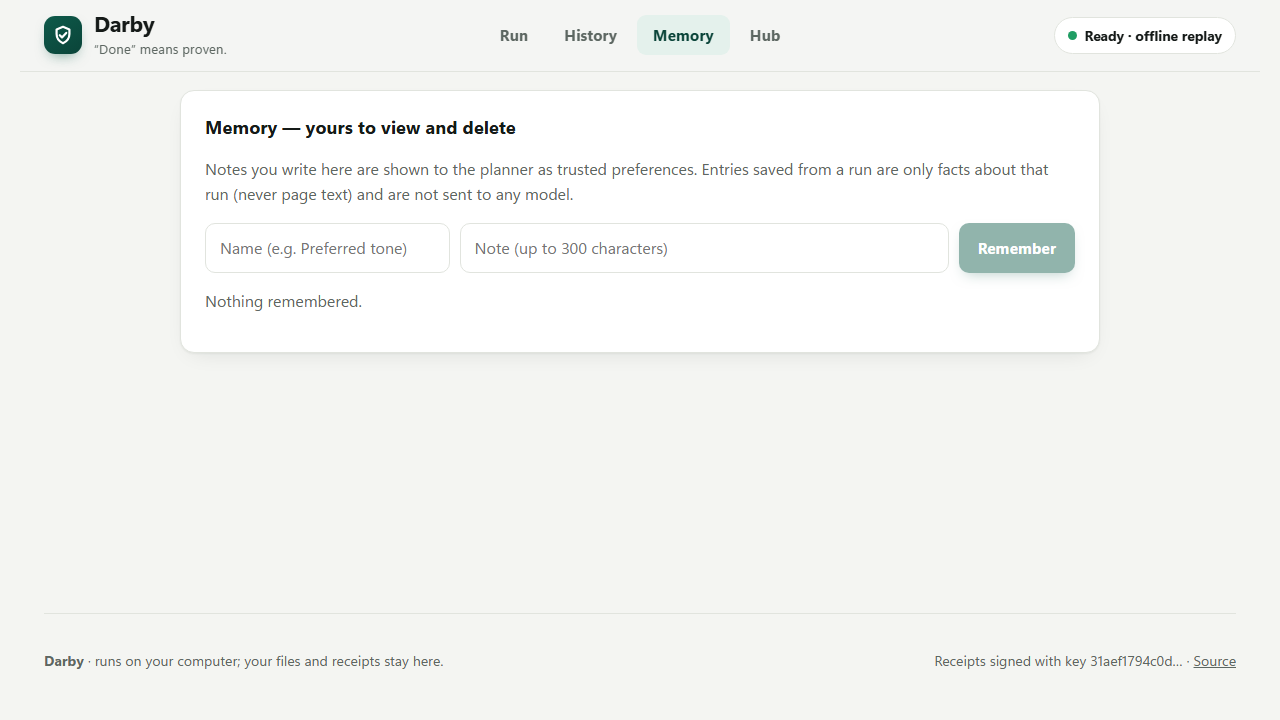
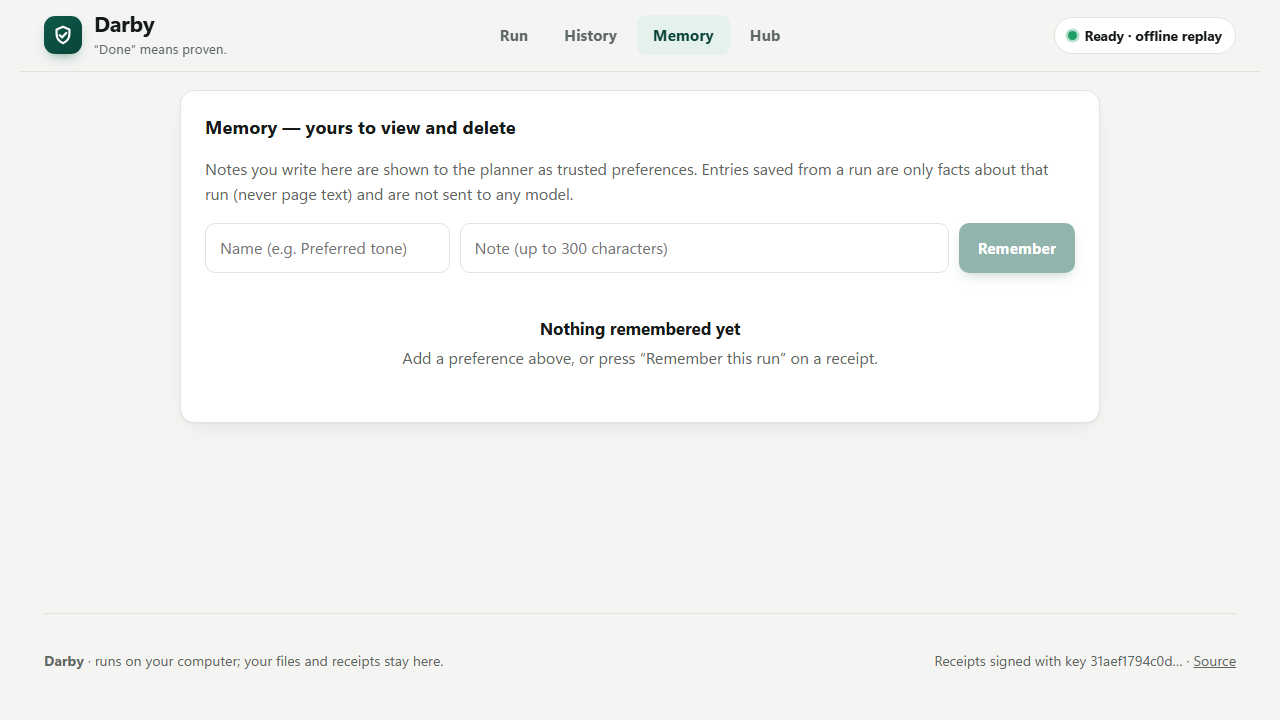
PS1 compliance matrix; page-context input; Hub, Memory and phone-layout polish; mobile overflow fix

Changed region(s): [[0.1562, 0.4278, 0.8438, 0.5194], [0.1562, 0.3972, 0.2812, 0.4278], [0.8125, 0.0306, 0.8438, 0.0611]]

diff --git a/apps/companion/src/App.tsx b/apps/companion/src/App.tsx
@@ -24,6 +24,7 @@ export function App() {
   const d = useDarby();
   const [tab, setTab] = useState<Tab>('run');
   const [goal, setGoal] = useState('');
+  const [pageUrl, setPageUrl] = useState('');
   const [listening, setListening] = useState(false);
   const [note, setNote] = useState('');
   const recRef = useRef<any>(null);
@@ -125,7 +126,8 @@ export function App() {
             <h2 id="goal-h">What should Darby get done?</h2>
             <textarea data-testid="goal-box" value={goal} onChange={(e) => setGoal(e.target.value)} rows={4} placeholder="Describe your goal in plain language…" aria-label="Your goal" />
             <div className="row">
-              <button className="btn primary" disabled={!allUp || goal.trim().length < 3} onClick={() => void d.start(goal.trim())} data-testid="run-btn">Plan &amp; run</button>
+              <button className="btn primary" disabled={!allUp || goal.trim().length < 3} onClick={() => void d.start(pageUrl.trim() ? `${goal.trim()}
+(Work on this page: ${pageUrl.trim()})` : goal.trim())} data-testid="run-btn">Plan &amp; run</button>
               <button className={`btn ghost${listening ? ' on' : ''}`} onClick={toggleVoice} data-testid="voice-btn" aria-pressed={listening} title="Speak your goal (Chrome speech recognition, needs internet)">{listening ? '● Listening… stop' : '🎤 Speak'}</button>
               <label className="btn ghost" data-testid="shot-btn" title="Attach a screenshot: the vision model describes it into the goal box for you to edit">
                 📎 Screenshot<input type="file" accept="image/png,image/jpeg,image/webp" hidden onChange={(e) => void attachShot(e.target.files?.[0])} />
@@ -133,6 +135,10 @@ export function App() {
               <span className="muted">Every step gets a proof; the run ends in a signed receipt.</span>
             </div>
             {note && <p className="muted small" role="status" data-testid="input-note">{note}</p>}
+            <label className="ctx"><span className="muted small">Page context (optional): the page Darby should start from</span>
+              <input value={pageUrl} onChange={(e) => setPageUrl(e.target.value)} placeholder={d.config?.allowedOrigins?.[0] ? `${d.config.allowedOrigins[0]}/startups/acme-ai` : 'https://…'} aria-label="Page to work on" data-testid="page-context" inputMode="url" />
+              <span className="muted small">{d.config?.allowedOrigins?.length ? `Darby may only read: ${d.config.allowedOrigins.join(', ')}. Anything else is blocked by policy.` : ''}</span>
+            </label>
             <div className="row examples" aria-label="Example goals"><span className="muted small">Try an example:</span>
               {EXAMPLES.map((x) => (<button key={x.label} className="btn ghost" onClick={() => setGoal(x.goal)} data-testid={`example-${x.label.slice(0, 6).replace(/\W/g, '').toLowerCase()}`}>{x.label}</button>))}
             </div>

diff --git a/apps/companion/src/parts.tsx b/apps/companion/src/parts.tsx
@@ -302,7 +302,7 @@ export function Hub({ items, busy, onRun }: { items: PlaybookItem[]; busy: boole
     <section className="card" aria-labelledby="hub-h">
       <h2 id="hub-h">Hub — Playbooks you can re-run</h2>
       <p className="muted">A Playbook is a verified run saved as a recipe. Each replay is planned by code from the saved steps, goes through the same policy and approvals, and ends in its own signed receipt. The CI badge appears only after <code>npm run playbook:check</code> passes for this exact version.</p>
-      {items.length === 0 ? <p className="muted" data-testid="hub-empty">No Playbooks yet. Finish a run, then press “Save as Playbook” on its receipt.</p> : (
+      {items.length === 0 ? <div className="empty" data-testid="hub-empty"><b>No Playbooks yet</b>Finish a run, then press “Save as Playbook” on its receipt. It becomes a re-runnable skill here.</div> : (
         <ul className="playbooks" data-testid="hub">{items.map((pb) => (<PlaybookCard key={pb.slug + pb.sha256} pb={pb} busy={busy} onRun={onRun} />))}</ul>
       )}
     </section>
@@ -431,7 +431,7 @@ export function Memory({ items, onAdd, onDelete }: { items: MemoryItem[]; onAdd:
         <input value={v} onChange={(e) => setV(e.target.value)} placeholder="Note (up to 300 characters)" aria-label="Memory note" maxLength={300} />
         <button className="btn primary" type="submit" disabled={!k.trim() || !v.trim()}>Remember</button>
       </form>
-      {items.length === 0 ? <p className="muted" data-testid="memory-empty">Nothing remembered.</p> : (
+      {items.length === 0 ? <div className="empty" data-testid="memory-empty"><b>Nothing remembered yet</b>Add a preference above, or press “Remember this run” on a receipt.</div> : (
         <ul className="memory" data-testid="memory">
           {items.map((m) => (
             <li key={m.id}>

diff --git a/apps/companion/src/styles.css b/apps/companion/src/styles.css
@@ -220,3 +220,13 @@ textarea { resize: vertical; font-size: 1.05rem; min-height: 112px; }
 @media (max-width: 760px) { .pb-head { flex-direction: column; } .shell { padding: 0 16px 32px; } .top { margin-inline: -16px; padding-inline: 16px; } .mem-form { grid-template-columns: 1fr; } .receipt { padding: 18px; } .tamper { grid-template-columns: 1fr; } }
 .pb-check input { margin: 0; width: auto; padding: 0; box-shadow: none; }
 @media print { .top, .runbar, .btn { display: none !important; } }
+
+.history .linkbtn { text-decoration: none; font-size: 1.02rem; }
+.history .linkbtn:hover { text-decoration: underline; }
+.hub-intro { max-width: 70ch; }
+.stack > *, .col > *, .cols > * { min-width: 0; }
+code { overflow-wrap: anywhere; }
+.top { min-width: 0; } .shell { overflow-x: clip; }
+@media (max-width: 760px) { .tagline { display: none; } .tabs { margin-inline: -4px; } .lede { padding-top: 10px; } .trust { grid-template-columns: 1fr; } .runbar { flex-direction: column; align-items: stretch; top: 112px; } .runbar-goal { white-space: normal; } .approval { padding: 16px; } .approval dl, .kv { grid-template-columns: 1fr; gap: 0 } dt { margin-top: 8px; } .review-grid iframe { height: 320px; } }
+
+.ctx { display: grid; gap: 4px; margin-top: 14px; } .ctx input { padding: 9px 12px; font-size: .95rem; }

diff --git a/apps/companion/src/useDarby.ts b/apps/companion/src/useDarby.ts
@@ -4,7 +4,7 @@ import { applyEvent, foldEvents, type RunView } from './state';
 
 export type Link = 'connecting' | 'up' | 'down';
 export interface RunSummary { id: string; goal: string; status: string; verdict: string | null; labels: string[]; repairOf: string | null; createdAt: string; blocked: number }
-export interface AppConfig { llm: { provider: string; model: string; replayOnly: boolean }; headless: boolean; teamEmail: string; signerFingerprint: string }
+export interface AppConfig { llm: { provider: string; model: string; replayOnly: boolean }; headless: boolean; teamEmail: string; signerFingerprint: string; allowedOrigins?: string[] }
 export interface MemoryItem { id: string; key: string; value: string; sourceRunId: string | null; createdAt: string }
 export interface EvidenceRow { id: number; stepId: string | null; kind: string; path: string; sha256: string; bytes: number }
 export interface RunDetail { evidence: EvidenceRow[]; steps: { stepId: string; result: Record<string, unknown> | null; args: Record<string, unknown> }[]; approvals: { stepId: string; status: string; contentHash: string; summary: string }[] }

diff --git a/docs/PS1_COMPLIANCE.md b/docs/PS1_COMPLIANCE.md
@@ -1,0 +1,111 @@
+# PS1 compliance, line by line
+
+Source: "Problem Statement-1: Build an AI-Native Browser with an Autonomous Multimodal Companion Using AdaL" (organiser PDF).
+Status: MET (works, tested), PARTLY (works with a stated limit), NOT MET (not built), OWNER (only the team can do it).
+
+## Section 3, core capabilities
+| # | Requirement | Status | Evidence / limit |
+|---|---|---|---|
+| 1 | AI-native browsing: understand intent, operate actual tabs, websites, authorized web apps | MET | Playwright drives real Chrome tabs (3 in parallel); fixture sites and the LeadDesk web app; `case1`, `case4`, UI walkthrough |
+| 2 | Autonomous task execution: multi-step plans using browser, APIs, other tools | MET | Planner builds typed plans; tools include `browser.read_page`, `browser.act`, `http.request` (documented API), `sheet.write`, `gtm.*` |
+| 3 | Multimodal: image, audio, video understanding or generation | PARTLY | Image understanding (vision check on screenshots, screenshot-to-goal). Audio: voiceover generation (Edge TTS / macOS say / espeak). Video: 15 s teaser composed with ffmpeg and probed. Image generation is a labelled placeholder card: Gemini image models returned quota errors on the free tier (tested), and paid services are out of scope. Audio transcription and video understanding are not built |
+| 4 | Coding and development: AdaL assists implementation, debugging, testing | PARTLY | A model writes the landing page and Darby tests it in a real tab with one repair loop (`case3`). AdaL's own contribution: M0-M3, red team (see `docs/ADAL_EVIDENCE.md`); the rest is logged as built with another assistant. Recording still needed: OWNER |
+| 5 | GTM automation: research, competitor analysis, content, launch | MET | Case 3: competitor research, positioning and copy, hero, voiceover, teaser, landing page, test, PR behind approval |
+| 6 | Verification and transparency: verify outcomes, show progress, report failures honestly | MET | Independent verifier, 10 evidence-contract kinds, live timeline, evidence drawer, signed receipt, `case4` FAILED then repaired |
+| 7 | User control and security: approvals, cancellation, manual takeover | MET | Approval card (Approve / Deny / Take over), Cancel, Take over and Resume; `cancel`, `cancel-approval`, `takeover`, `case1-denied`, `case3-denied` |
+
+## Section 4, mandatory AdaL requirement
+| Requirement | Status | Note |
+|---|---|---|
+| AdaL actively used in development, not just documented | PARTLY | Genuine for M0-M3 and the independent red team (commit trailers `Built-with: AdaL`, `docs/evidence/adal-redteam`). Later milestones were built with another assistant and are logged that way |
+| Brief explanation and demonstration of AdaL's role; genuine evidence (recording or live demo) | OWNER | `docs/ADAL_TODO_FOR_OWNER.md` lists the sessions and prompts to run and record |
+
+## Section 5, Pillar 1 (potential capabilities)
+| Capability | Status | Evidence / limit |
+|---|---|---|
+| Context-aware assistance using the active or user-selected tab | PARTLY | Optional "Page context" field in the goal box (user-selected page, restricted to allow-listed origins). Darby does not read the user's own live Chrome tabs |
+| Multi-step browser automation and web research | MET | Case 1 (10 pages, 3 at a time), Case 3 |
+| Real editing of documents and spreadsheets | PARTLY | Real xlsx file written and read back from disk. Google Sheets (M4) is not configured |
+| Structured extraction and report generation | MET | Quarantined reader with a strict schema; positioning and launch-post documents |
+| Connected-app workflows via authorized APIs or browser automation | PARTLY | LeadDesk app via browser and its documented API (real, local). GitHub PR and sheet sharing are simulated and labelled unless tokens are set |
+| Task history, progress tracking, user-controlled memory | MET | Recent runs, run progress bar and timeline, Memory tab (add, view, delete) |
+| Independent verification and transparent failure reporting | MET | As above |
+| Example: research ten AI startups, compare, create a spreadsheet, read back, flag unknowns, provide the artifact | MET | Case 1: 10 rows read back, gaps exactly cobalt, echo, helio flagged NOT FOUND, `Competitors.xlsx` provided |
+
+## Section 5, Pillar 2 (potential capabilities)
+| Capability | Status | Evidence / limit |
+|---|---|---|
+| Codebase understanding, debugging, test execution, code changes | PARTLY | The product writes and tests code (landing page). Codebase analysis of a user's repository is not built |
+| Browser-based testing of locally running applications | MET | `gtm.test_page` opens the generated page in a fresh tab with assertions and a vision check; the walkthrough tests Darby's own UI |
+| Image understanding and generation | PARTLY | Understanding yes; generation is a labelled placeholder |
+| Audio transcription, voiceover, audio analysis | PARTLY | Voiceover and a duration probe yes; transcription no |
+| Video understanding, generation, editing, compositing | PARTLY | Generation and compositing yes (hero + captions + voiceover); understanding no |
+| Market and competitor research | MET | Case 3 |
+| GTM content creation, messaging, campaign preparation | MET | Case 3 outputs, reviewable in the Review panel |
+| Chaining multiple tools into one end-to-end workflow | MET | Nine-step chain in Case 3 |
+| Example: audience analysis, competitors, concept, creative assets, launch campaign, reviewable outputs in a coherent workspace | MET | Case 3 and its Review panel |
+
+## Section 6, mandatory functional requirements
+| # | Requirement | Status | Evidence |
+|---|---|---|---|
+| 1 | Natural-language, multi-step instruction converted to a plan | MET | Goal box, plan with proof per step; text, voice (Chrome) or screenshot input |
+| 2 | At least one workflow on a real page, local app, or document; simulated actions do not count | MET | Case 1 and Case 4 act on real pages and a real xlsx / the real LeadDesk app. Simulated items (share, PR) are labelled and are not what the verdict rests on |
+| 3 | Verify the change occurred before marking complete | MET | `sheet_readback`, `quote_in_page`, API read-back, `page_assertions`, vision, `media_probe`, `pr_exists`; `case4` proves a false "Saved ✓" is caught |
+| 4 | Inspect progress, actions, results, errors | MET | Timeline, evidence drawer, receipt |
+| 5 | Cancel, intervene manually, approve consequential actions (send, publish, delete) | MET | Cancel, Take over, approval cards for share and PR. No delete tool exists, so there is nothing to approve there |
+| 6 | At least one end-to-end workflow combining multiple tools | MET | Case 3 |
+| 7 | Mandatory AdaL usage, explained and demonstrated | PARTLY / OWNER | See section 4 |
+
+## Section 7, suggested architecture (illustrative, not required)
+| Item | Darby |
+|---|---|
+| Desktop/browser: Electron, Chromium, or other | Chromium via Playwright plus a web companion (browser-integrated workspace). No Electron shell |
+| Frontend React + TypeScript | Yes (Vite) |
+| Agent runtime: planner, tool router, execution controller, policy engine, verifier | Yes, all five |
+| AI layer | Gemini (free tier) with a pluggable provider; replay mode for offline |
+| Browser automation | Playwright |
+| Backend Node + TypeScript | Yes (Express + WebSocket) |
+| Database | SQLite (append-only ledger); no Supabase |
+| Integrations: Google Workspace, GitHub, Slack, Notion | GitHub (simulated unless token), local sheet; no Slack, Notion or Google |
+| Multimodal services | Vision model, TTS, ffmpeg |
+
+## Section 8, evaluation criteria
+| Criterion | Weight | Where it is shown |
+|---|---|---|
+| Functional execution and verified outcomes | 25 % | Four cases, UI walkthrough 20/20 (offline and live), `docs/evidence/` |
+| Agent intelligence and multi-step orchestration | 20 % | Typed plans, parallel tabs, replanning after failure (Case 4), Playbook replay, 9-step Case 3 chain |
+| Multimodal and coding capabilities | 15 % | Vision, voiceover, teaser video, model-written landing page tested in a real tab; limits above |
+| User experience and workflow clarity | 15 % | Product UI at 1280x720, 1920x1080 and phone width; screenshots in `docs/evidence/ui` |
+| Security, permissions, user control | 10 % | Policy engine, taint tracking, 10 poisoned pages, red team (48 independent attempts, 0 bypass after fix), approvals, Cancel, Take over |
+| Practical value, originality, GTM potential | 10 % | `docs/VALUE.md` |
+| Demonstrated AdaL usage | 5 % | Partial; OWNER sessions pending |
+
+## Section 9, deliverables
+| # | Deliverable | Status | Where |
+|---|---|---|---|
+| 1 | Working prototype of the core workflow | MET | `npm run demo:offline` |
+| 2 | Live demo or short video | OWNER | `docs/DEMO_SCRIPT.md`; the video must be recorded by the team |
+| 3 | Source with setup and run instructions | MET | `README.md` |
+| 4 | Architecture overview (agent, tools, verification) | MET | `docs/ARCHITECTURE.md` |
+| 5 | Test case with success and failure handling | MET | `case1` (success with gaps), `case4` (failure then repair), `npm run test:acceptance` |
+| 6 | Users, value, future | MET | `docs/VALUE.md` |
+| 7 | AdaL usage evidence (recording of coding, debugging, browser testing) | OWNER | `docs/ADAL_TODO_FOR_OWNER.md` |
+
+## Section 10, security and responsible execution
+| Requirement | Status | Evidence |
+|---|---|---|
+| Respect website permissions, authentication boundaries, privacy | MET | Allow-listed origins (READ-001), no credential entry tools, local-only data |
+| External pages and documents treated as untrusted | MET | Quarantined reader, taint tracking, `case2*` |
+| Sensitive actions require approval | MET | EXT-001 approval cards |
+| Credentials handled securely | MET | Keys only in `.env`, never logged (redaction tests), secret guard on every push |
+| Never claim success without evidence | MET | Verdict comes from the verifier, not the agent; `case4` |
+| Honest failure and a safe recovery path | MET | FAILED with plain cause, recovery offered, repair run |
+
+## Section 11, expected outcome
+"Not a browser with a chatbot, a coding assistant with a browser tool, or disconnected APIs; a unified workspace that understands a goal, selects capabilities, executes real work, verifies, presents transparently." Darby's single companion workspace does this through one plan, one policy engine, one verifier and one receipt across research, forms, and GTM assets.
+
+## What would still move the score
+1. AdaL recordings (OWNER): Browser Use QA, Video Producer intro, Playbook in AdaL, a debug story.
+2. A demo video (OWNER).
+3. Google Sheets and a real GitHub test repo PR (needs credentials: OWNER).
+4. Audio transcription and a real image-generation provider (needs a paid or approved service; not done).

diff --git a/docs/SUBMISSION.md b/docs/SUBMISSION.md
@@ -1,5 +1,7 @@
 # Submission map (PS1 section 9 deliverables)
 
+Line-by-line comparison with the organiser PDF: `docs/PS1_COMPLIANCE.md`.
+
 | Deliverable | Where | How to see it |
 |---|---|---|
 | Working prototype | whole repo | `npm install`, `cp .env.example .env`, `npm run demo:offline` (no key needed) or `npm run demo` (live model) |
